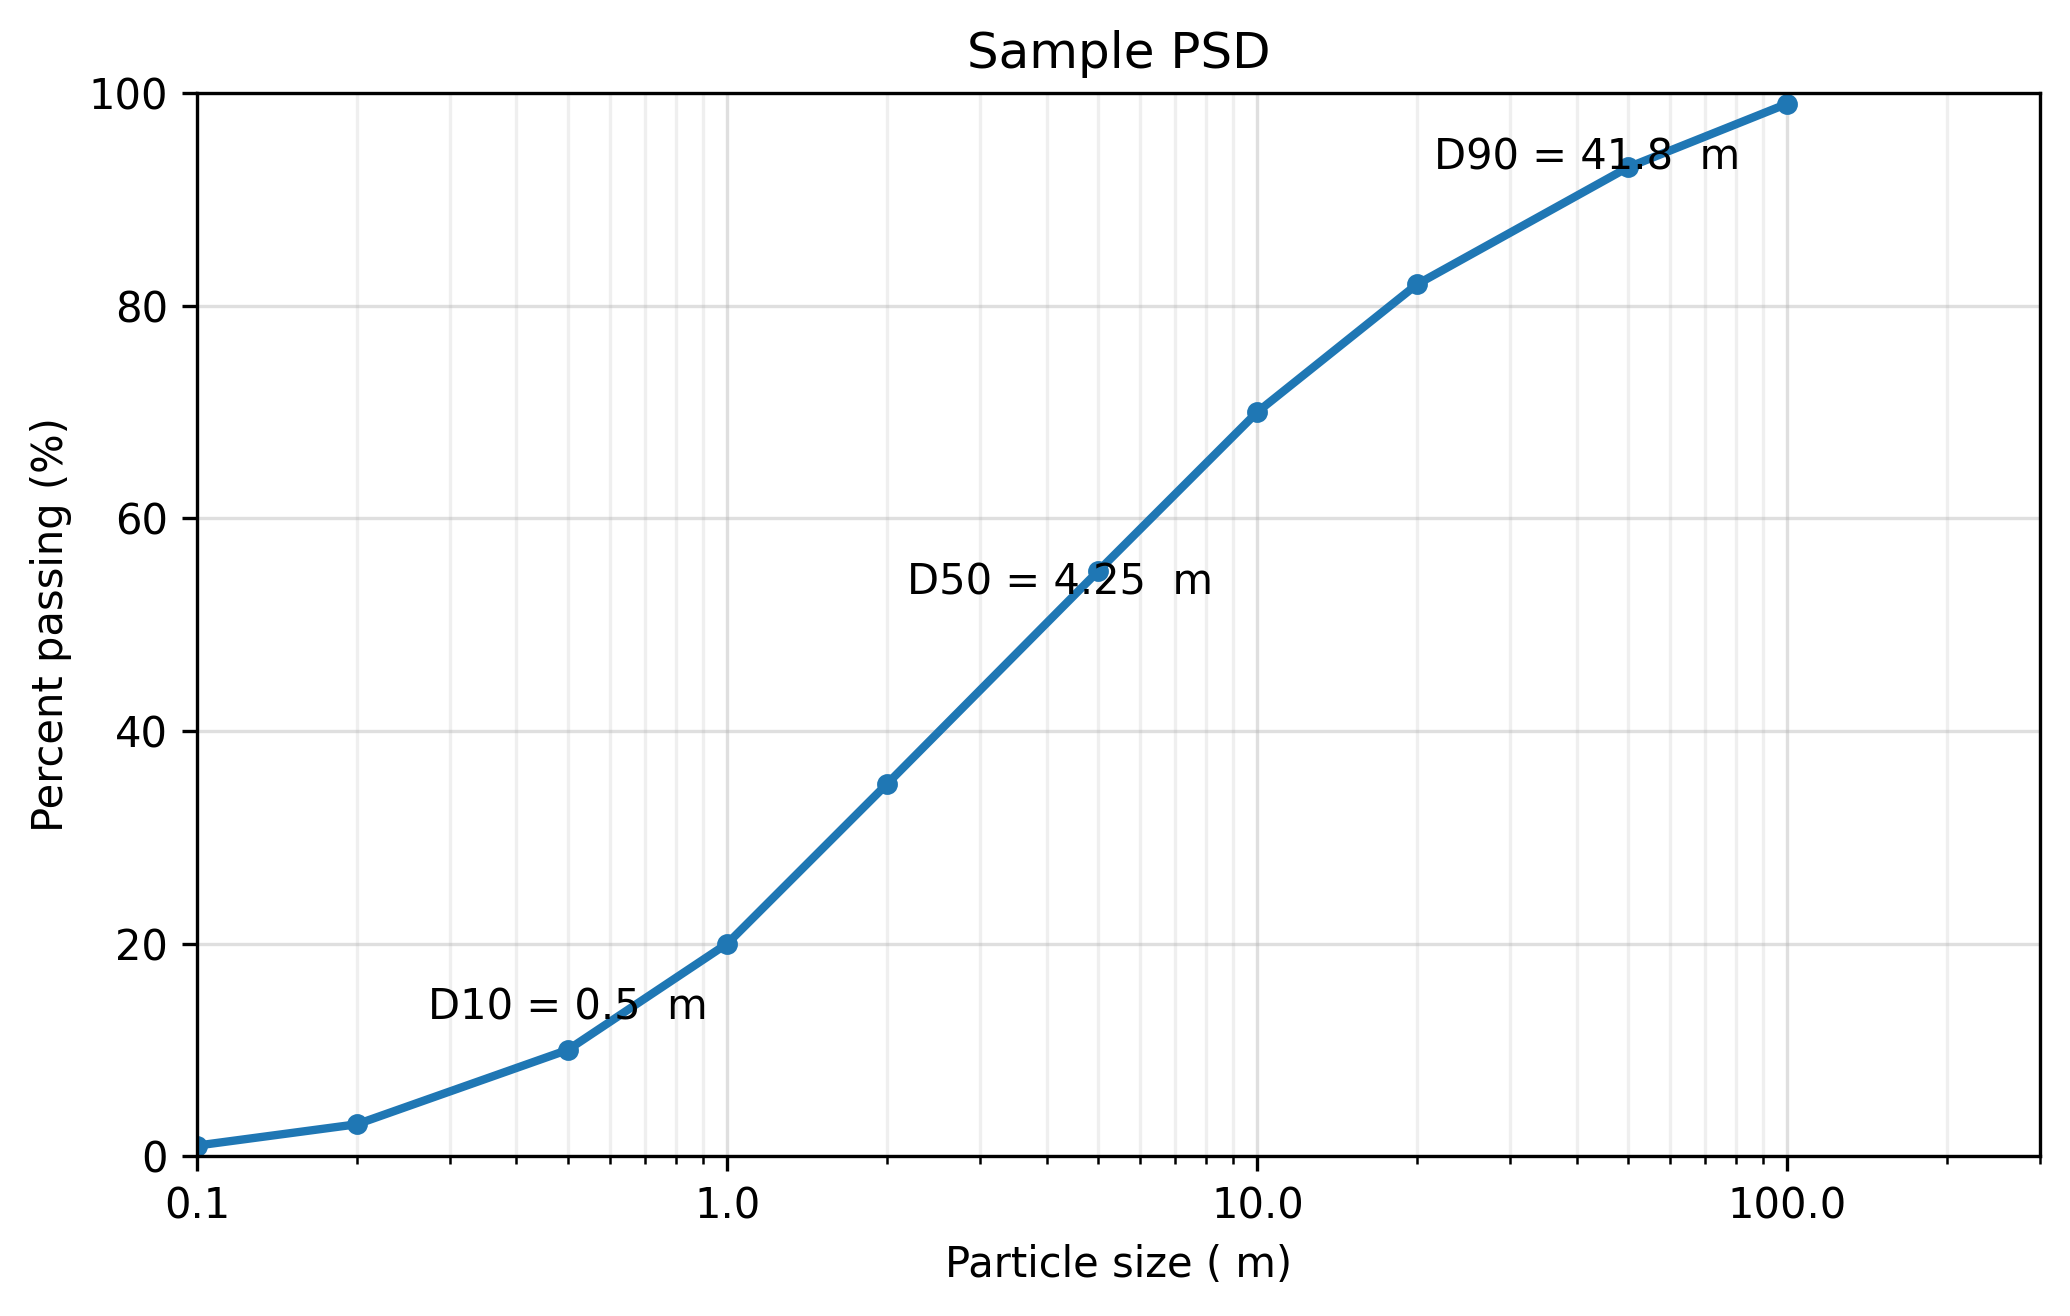
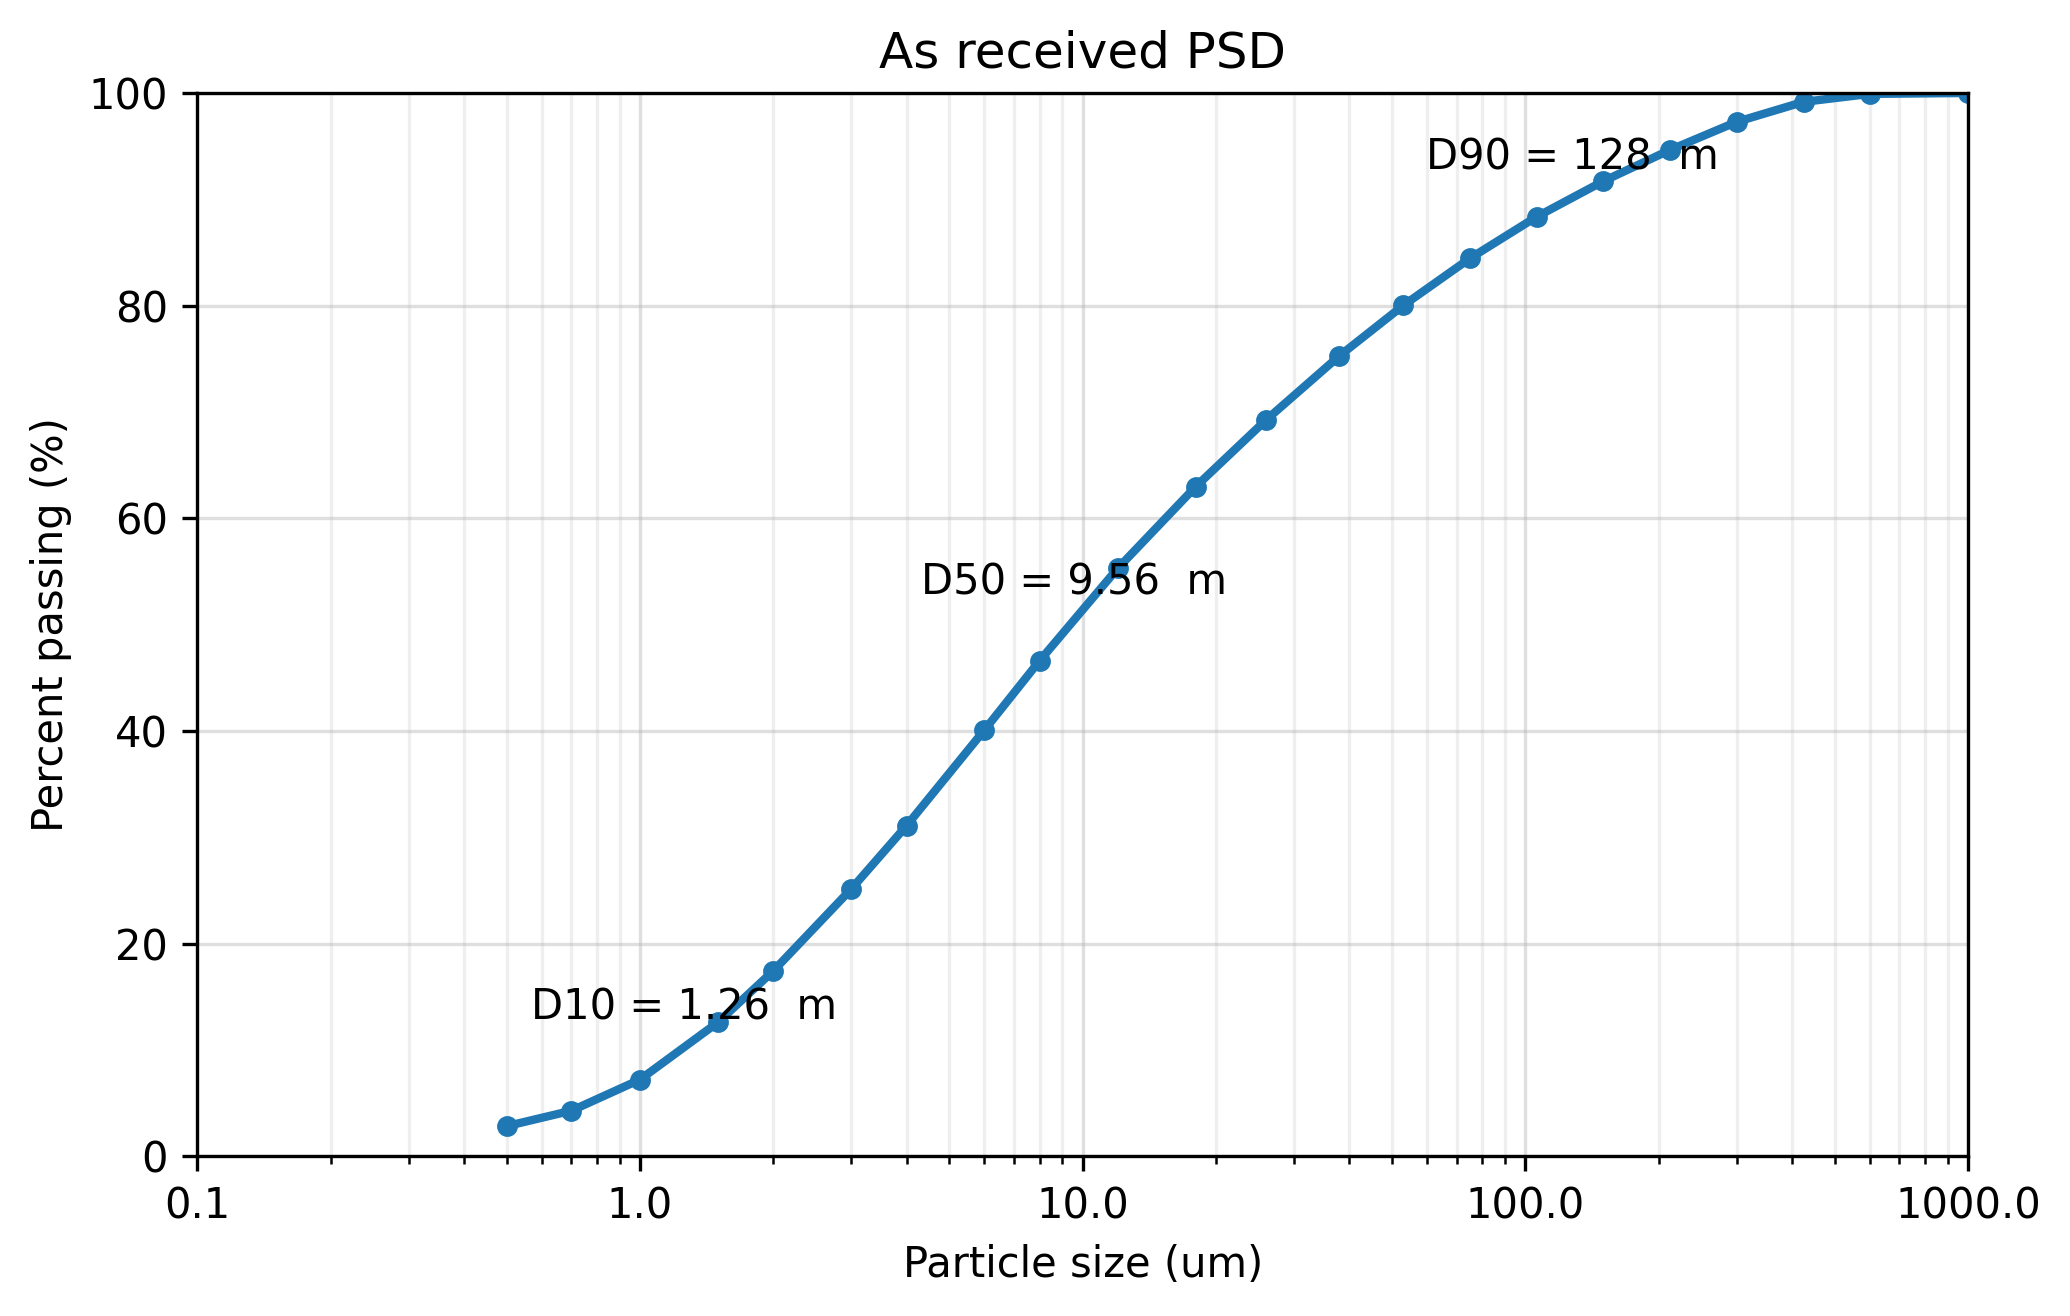
test with as received

diff --git a/PSD_tools/psd_maker.py b/PSD_tools/psd_maker.py
@@ -33,8 +33,8 @@ def plot_psd(
     percent_passing: Sequence[float],
     *,
     title: str = "Particle Size Distribution (PSD)",
-    x_major_ticks: Iterable[float] = (0.1, 1, 10, 100, 300),
-    x_limits: Optional[tuple[float, float]] = (0.1, 300),
+    x_major_ticks: Iterable[float] = (0.1, 1, 10, 100, 1000),
+    x_limits: Optional[tuple[float, float]] = (0.1, 1000),
     show_grid: bool = True,
     annotate_dx: Iterable[int] | None = (10, 50, 90),
     save_path: Optional[str] = None,
@@ -68,9 +68,10 @@ def plot_psd(
     if x_limits:
         ax.set_xlim(*x_limits)
     ax.set_ylim(0, 100)
-    ax.set_xlabel("Particle size ( m)")
+    ax.set_xlabel("Particle size (\u03bcm)")
     ax.set_ylabel("Percent passing (%)")
     ax.set_title(title)
+
 
     # Ticks exactly at 0.1, 1, 10, 100 (or whatever is passed)
     xticks = list(x_major_ticks)
@@ -88,7 +89,7 @@ def plot_psd(
             dx_out[f"D{p}"] = d
             #ax.axhline(p, color="grey", linestyle="--", linewidth=1)
             #ax.axvline(d, color="grey", linestyle="--", linewidth=1)
-            ax.text(d, p + 2, f"D{p} = {d:.3g}  m", ha="center", va="bottom")
+           # ax.text(d, p + 2, f"D{p} = {d:.3g}  m", ha="center", va="bottom")
 
     plt.tight_layout()
 

diff --git a/Main.py b/Main.py
@@ -2,17 +2,19 @@ from PSD_tools import plot_psd
 
 def main():
     # Example data  replace with yours
-    sizes_um = [0.1, 0.2, 0.5, 1, 2, 5, 10, 20, 50, 100]
-    percent_passing = [1, 3, 10, 20, 35, 55, 70, 82, 93, 99]
+    sizes_um = [0.5,0.7,1,1.5,2,3,4,6,8,12,18,26,38,53,75,106,150,212,300,425,600,1000]
+    percent_passing = [2.826,4.277,7.206,12.586,17.421,25.123,31.079,40.088,46.615,55.289,62.971,69.272,75.268,80.019,84.453,88.355,91.703,94.637,97.28,99.165,99.914, 100]
+    
+
 
     dx = plot_psd(
         sizes_um,
         percent_passing,
-        title="Sample PSD",
-        x_major_ticks=(0.1, 1, 10, 100),   # your requested ticks
-        x_limits=(0.1, 300),
+        title="As received PSD",
+        x_major_ticks=(0.1, 1, 10, 100,1000),   # your requested ticks
+        x_limits=(0.1, 1000),
         annotate_dx=(10, 50, 90),
-        save_path="psd_sample_xyz.png",
+        #save_path="C:\Users\devli\OneDrive - Imperial College London\MSci - Devlin (Personal)\Data\Sample\RT\psd_As_Received.png",
         show=True,
     )
 
